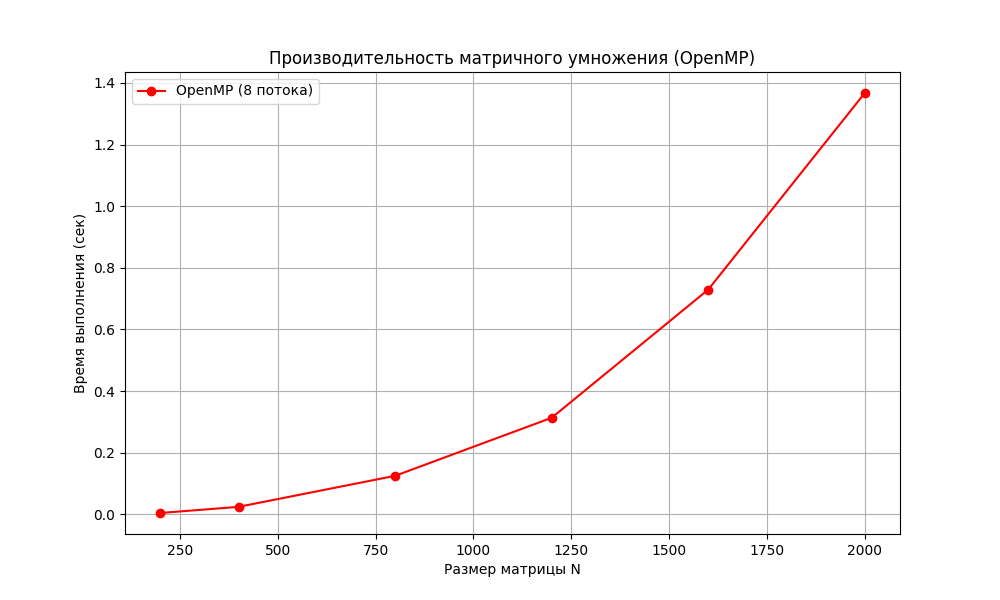
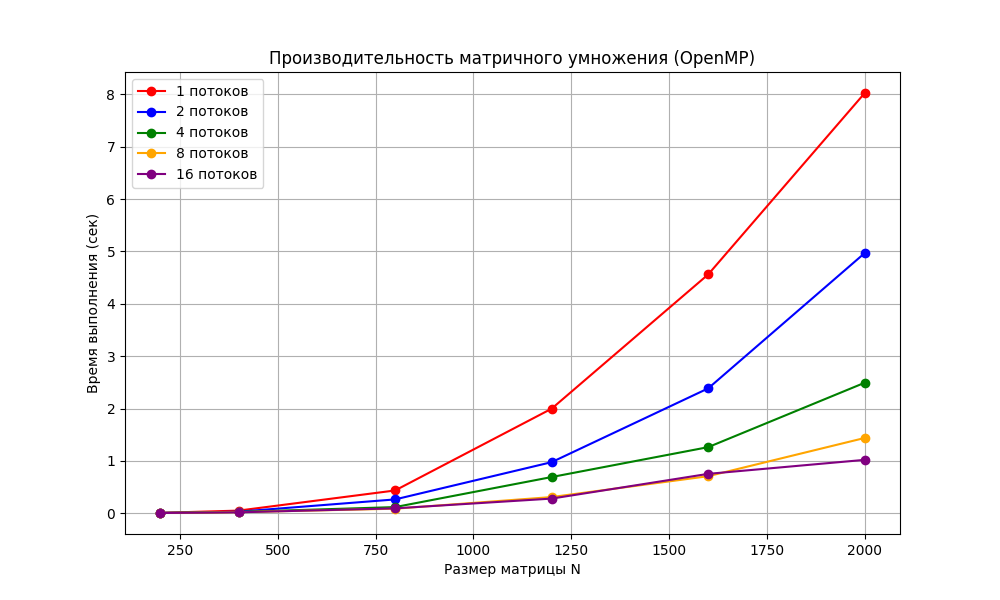
Implemented multithreads tests

diff --git a/lab2/run_experiments.py b/lab2/run_experiments.py
@@ -5,11 +5,12 @@ import numpy as np
 import matplotlib.pyplot as plt
 
 SIZES = [200, 400, 800, 1200, 1600, 2000]
-THREADS = 8
+THREADS = [1, 2, 4, 8, 16]
 EXECUTABLE = "./matrix_mul.exe"
 DATA_DIR = "data"
 RESULTS_DIR = "results"
 VERIFY_SCRIPT = "verify/verify.py"
+
 
 def generate_matrix(filename, n):
     matrix = np.random.uniform(0, 10, size=(n, n))
@@ -18,21 +19,15 @@ def generate_matrix(filename, n):
         for row in matrix:
             f.write(" ".join(map(lambda x: f"{x:.4f}", row)) + "\n")
 
-def run_test(n):
-    file_a = os.path.join(DATA_DIR, "A.txt")
-    file_b = os.path.join(DATA_DIR, "B.txt")
-    file_res = os.path.join(RESULTS_DIR, "Result.txt")
 
-    print(f"--- Тестирование N = {n}, Потоков = {THREADS} ---")
-    generate_matrix(file_a, n)
-    generate_matrix(file_b, n)
-    
-    cmd = [EXECUTABLE, file_a, file_b, file_res, str(THREADS)]
-    
+def run_test(n, threads, file_a, file_b, file_res):
+    print(f"  -> Тестирование: Потоков = {threads}")
+    cmd = [EXECUTABLE, file_a, file_b, file_res, str(threads)]
+
     try:
         result = subprocess.run(cmd, capture_output=True, text=True, encoding='utf-8')
         if result.returncode != 0:
-            print(f"Ошибка: {result.stderr}")
+            print(f"     Ошибка: {result.stderr}")
             return None
 
         exec_time = 0.0
@@ -44,26 +39,44 @@ def run_test(n):
         v_result = subprocess.run(verify_cmd, capture_output=True, text=True)
         is_valid = "Все верно!" in v_result.stdout
 
-        print(f"Время: {exec_time:.4f} сек | Валидация: {'OK' if is_valid else 'FAIL'}")
+        print(f"     Время: {exec_time:.4f} сек | Валидация: {'OK' if is_valid else 'FAIL'}")
         return exec_time
     except Exception as e:
-        print(f"Сбой при запуске: {e}")
+        print(f"     Сбой при запуске: {e}")
         return None
+
 
 def main():
     os.makedirs(DATA_DIR, exist_ok=True)
     os.makedirs(RESULTS_DIR, exist_ok=True)
-    results_data = []
+
+    file_a = os.path.join(DATA_DIR, "A.txt")
+    file_b = os.path.join(DATA_DIR, "B.txt")
+    file_res = os.path.join(RESULTS_DIR, "Result.txt")
+
+    results_by_threads = {t: [] for t in THREADS}
+    flat_results = []
 
     for n in SIZES:
-        elapsed = run_test(n)
-        if elapsed is not None:
-            results_data.append((n, elapsed))
+        print(f"\n=== N = {n} (Генерация матриц...) ===")
+        generate_matrix(file_a, n)
+        generate_matrix(file_b, n)
 
-    if results_data:
-        ns, ts = zip(*results_data)
+        for t in THREADS:
+            elapsed = run_test(n, t, file_a, file_b, file_res)
+            if elapsed is not None:
+                results_by_threads[t].append((n, elapsed))
+                flat_results.append((n, t, elapsed))
+
+    if flat_results:
         plt.figure(figsize=(10, 6))
-        plt.plot(ns, ts, marker='o', linestyle='-', color='red', label=f'OpenMP ({THREADS} потока)')
+        colors = ['red', 'blue', 'green', 'orange', 'purple', 'brown']
+
+        for i, t in enumerate(THREADS):
+            if results_by_threads[t]:
+                ns, ts = zip(*results_by_threads[t])
+                plt.plot(ns, ts, marker='o', linestyle='-', color=colors[i % len(colors)], label=f'{t} потоков')
+
         plt.title('Производительность матричного умножения (OpenMP)')
         plt.xlabel('Размер матрицы N')
         plt.ylabel('Время выполнения (сек)')
@@ -72,11 +85,12 @@ def main():
         plt.savefig('performance_results.png')
         print("\nГрафик сохранен в performance_results.png")
 
-        print("\nТаблица:")
-        print("| N | Время (сек) | Операций (2N³) | Потоков |")
-        print("|---|-------------|----------------|---------|")
-        for n, t in results_data:
-            print(f"| {n} | {t:.4f} | {2*(n**3):,} | {THREADS} |")
+        print("\nТаблица результатов:")
+        print("| N | Потоков | Время (сек) | Операций (2N³) |")
+        print("|---|---------|-------------|----------------|")
+        for n, t, elapsed in flat_results:
+            print(f"| {n} | {t} | {elapsed:.4f} | {2 * (n ** 3):,} |")
+
 
 if __name__ == "__main__":
     main()

diff --git a/lab2/README.md b/lab2/README.md
@@ -47,14 +47,38 @@ py run_experiments.py
 - Пример вывода
 
 Таблица:
-| N | Время (сек) | Операций (2N³) | Потоков |
-|---|-------------|----------------|---------|
-| 200 | 0.0047 | 16,000,000 | 8 |
-| 400 | 0.0246 | 128,000,000 | 8 |
-| 800 | 0.1252 | 1,024,000,000 | 8 |
-| 1200 | 0.3135 | 3,456,000,000 | 8 |
-| 1600 | 0.7293 | 8,192,000,000 | 8 |
-| 2000 | 1.3672 | 16,000,000,000 | 8 |
+| N | Потоков | Время (сек) | Операций (2N³) |
+|---|---------|-------------|----------------|
+| 200 | 1 | 0.0078 | 16,000,000 |
+| 200 | 2 | 0.0072 | 16,000,000 |
+| 200 | 4 | 0.0058 | 16,000,000 |
+| 200 | 8 | 0.0059 | 16,000,000 |
+| 200 | 16 | 0.0048 | 16,000,000 |
+| 400 | 1 | 0.0504 | 128,000,000 |
+| 400 | 2 | 0.0296 | 128,000,000 |
+| 400 | 4 | 0.0254 | 128,000,000 |
+| 400 | 8 | 0.0211 | 128,000,000 |
+| 400 | 16 | 0.0179 | 128,000,000 |
+| 800 | 1 | 0.4350 | 1,024,000,000 |
+| 800 | 2 | 0.2641 | 1,024,000,000 |
+| 800 | 4 | 0.1176 | 1,024,000,000 |
+| 800 | 8 | 0.0869 | 1,024,000,000 |
+| 800 | 16 | 0.0934 | 1,024,000,000 |
+| 1200 | 1 | 1.9974 | 3,456,000,000 |
+| 1200 | 2 | 0.9758 | 3,456,000,000 |
+| 1200 | 4 | 0.6916 | 3,456,000,000 |
+| 1200 | 8 | 0.3091 | 3,456,000,000 |
+| 1200 | 16 | 0.2799 | 3,456,000,000 |
+| 1600 | 1 | 4.5616 | 8,192,000,000 |
+| 1600 | 2 | 2.3854 | 8,192,000,000 |
+| 1600 | 4 | 1.2628 | 8,192,000,000 |
+| 1600 | 8 | 0.7078 | 8,192,000,000 |
+| 1600 | 16 | 0.7525 | 8,192,000,000 |
+| 2000 | 1 | 8.0267 | 16,000,000,000 |
+| 2000 | 2 | 4.9704 | 16,000,000,000 |
+| 2000 | 4 | 2.4933 | 16,000,000,000 |
+| 2000 | 8 | 1.4383 | 16,000,000,000 |
+| 2000 | 16 | 1.0199 | 16,000,000,000 |
 
 - График сохранен как performance_graph.png
 
